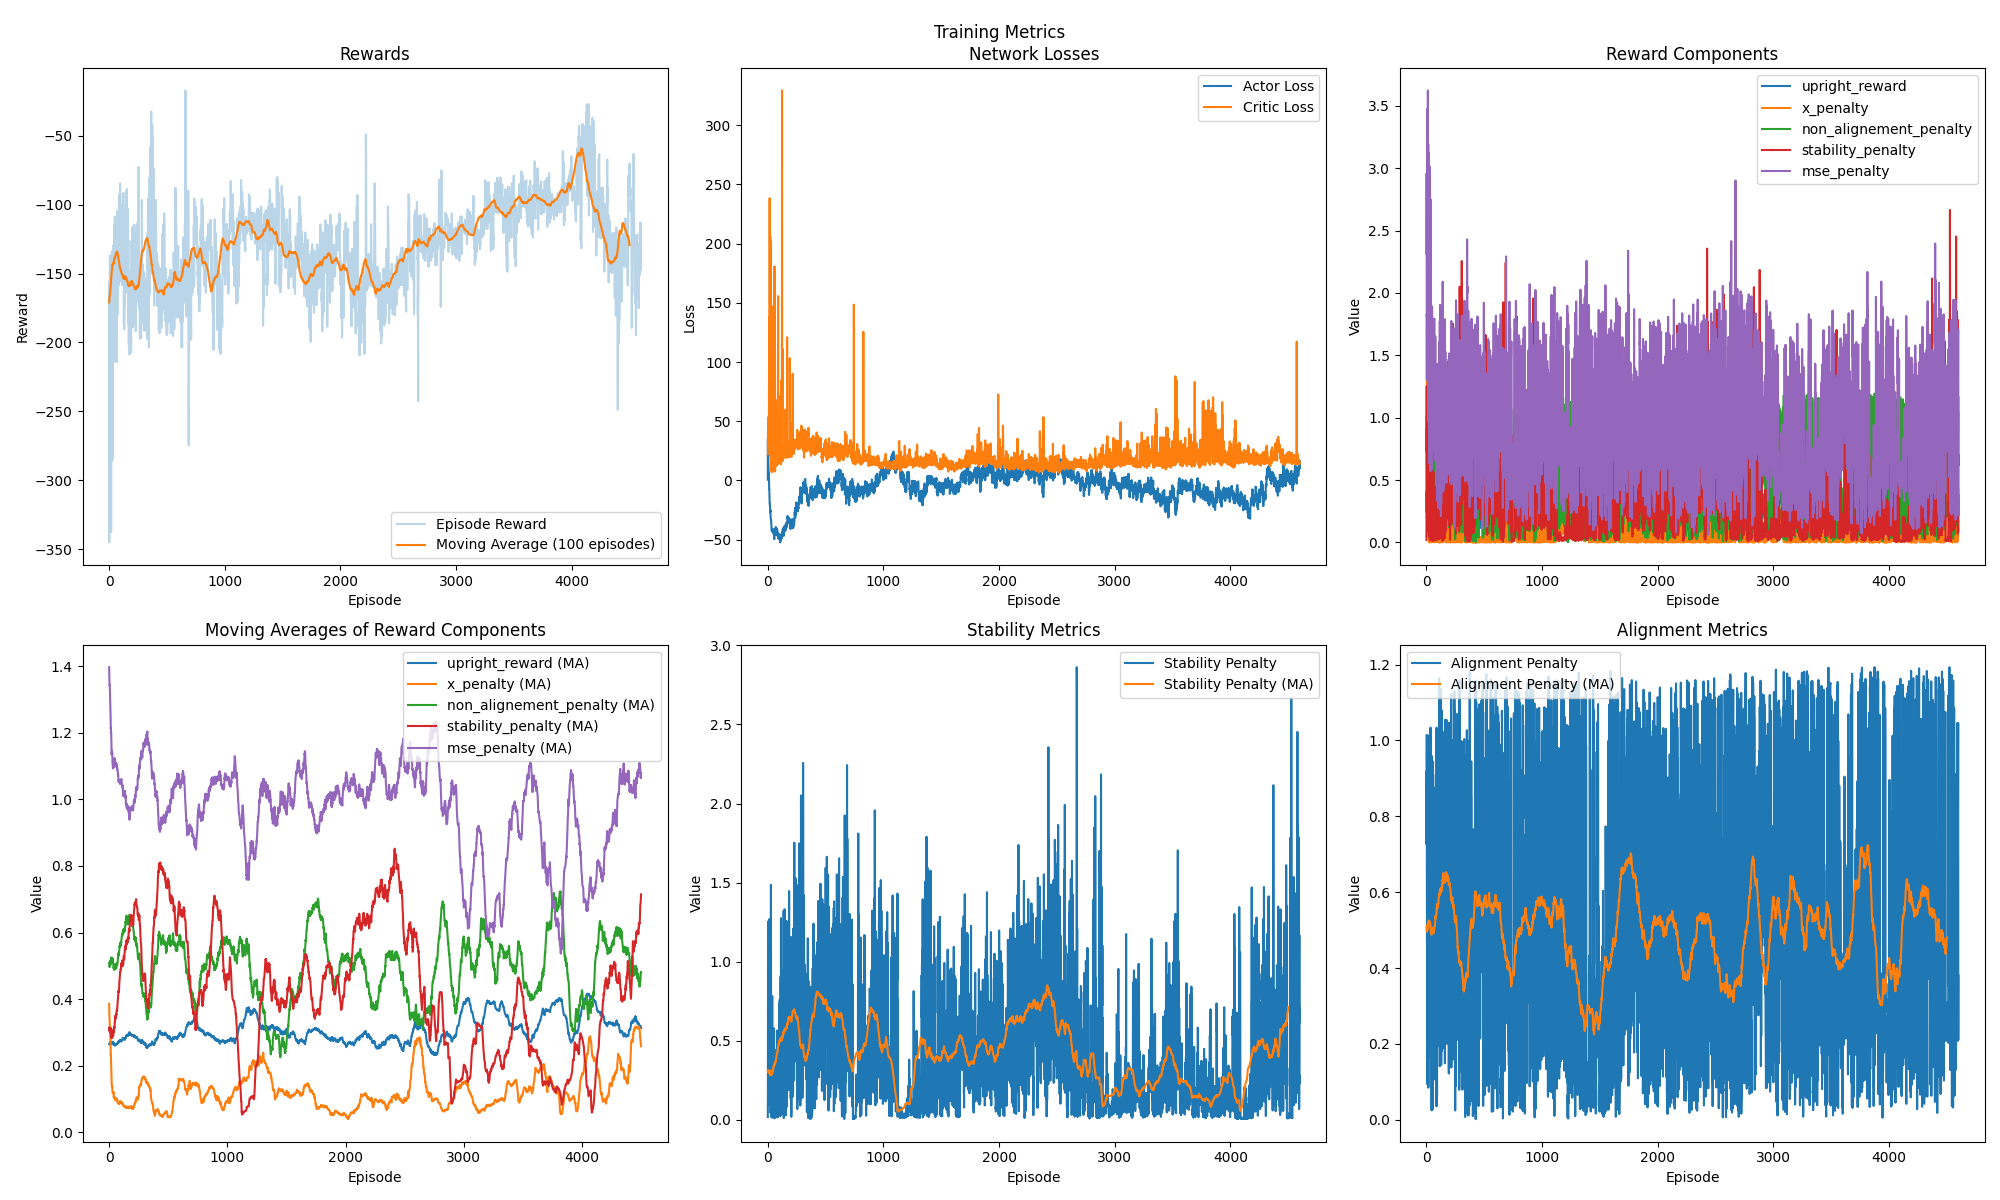
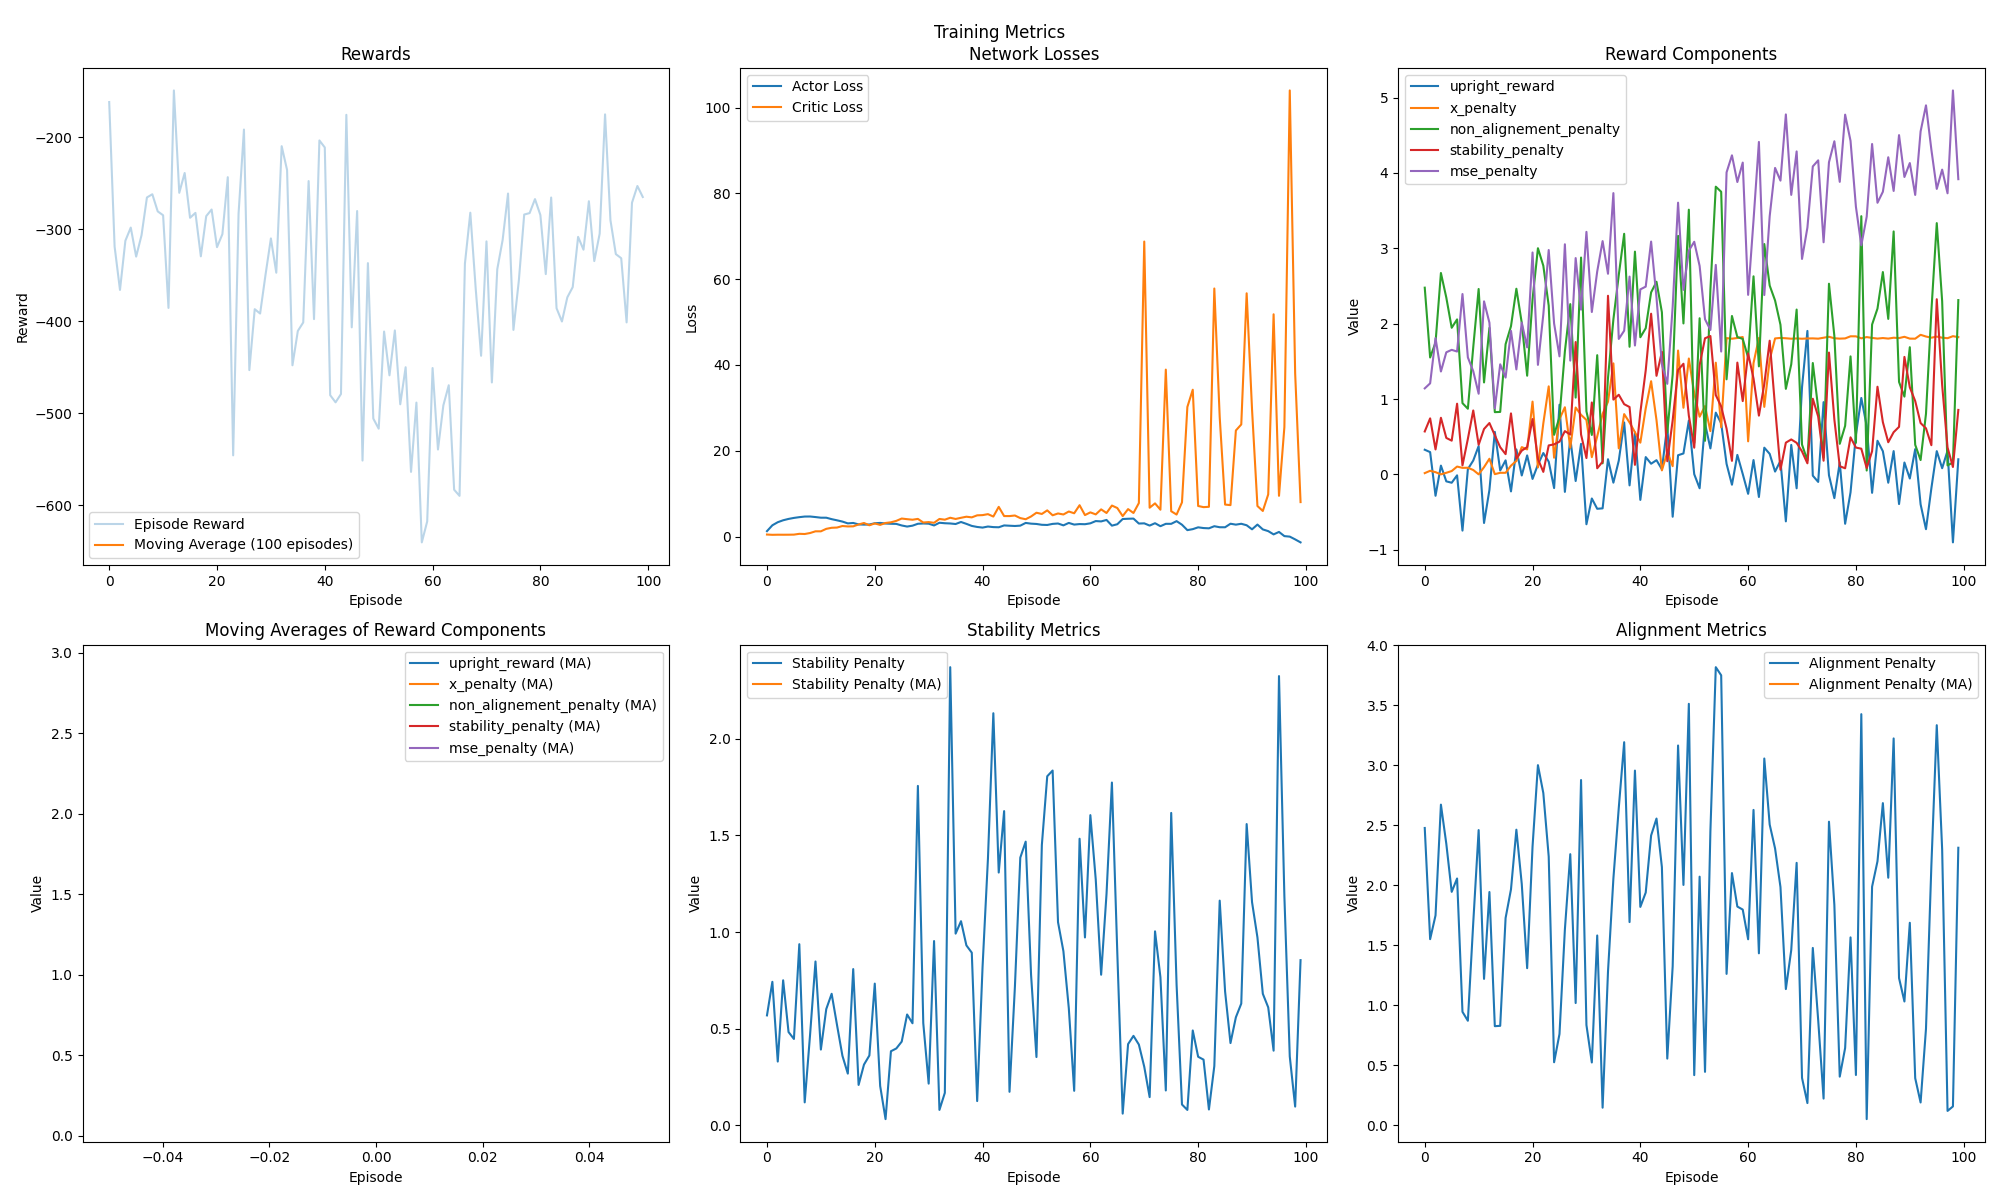
Refactor TriplePendulum environment to incorporate new reward components, including upright reward and penalties for alignment, stability, and MSE. Adjust RewardManager weights for improved reward calculations. Update manual control force magnitude for enhanced responsiveness. Update metrics image t

diff --git a/env.py b/env.py
@@ -448,20 +448,27 @@ class TriplePendulumEnv(gym.Env):
         normalized_consecutive_upright_steps = min(self.consecutive_upright_steps / 100, 1)
         is_long_upright = self.consecutive_upright_steps > 60
 
-        # MSE with aim position
-        reward_manager = RewardManager()
-        mse_sum = 0
-        for i in range(len(state)):
-            if i in [3, 6, 9]: # angles
-                mse_sum += np.sqrt((abs(state[i]) - reward_manager.aim_position_state[i]) ** 2)
-            elif i in [0, 12, 13, 14, 15, 16, 17, 18, 19] :
-                mse_sum += (state[i] - reward_manager.aim_position_state[i]) ** 2
+        # ADD reward components if Na, put 0
+        if self.reward_components:
+            reward = self.reward_components['reward']
+            upright_reward = self.reward_components['upright_reward']
+            x_penalty = self.reward_components['x_penalty']
+            non_alignement_penalty = self.reward_components['non_alignement_penalty']
+            stability_penalty = self.reward_components['stability_penalty']
+            mse_penalty = self.reward_components['mse_penalty']
+        else:
+            reward = 0
+            upright_reward = 0
+            x_penalty = 0
+            non_alignement_penalty = 0
+            stability_penalty = 0
+            mse_penalty = 0
 
         # Create model-ready state (only include necessary information)
         model_state = np.concatenate([
             processed_state[:12],  # Original 12 state variables
             [pivot1_x, pivot1_y, end1_x, end1_y, end2_x, end2_y, end3_x, end3_y, close_to_left, close_to_right, normalized_consecutive_upright_steps, is_long_upright],  # Additional visual information 
-            [mse_sum]
+            [reward, upright_reward, x_penalty, non_alignement_penalty, stability_penalty, mse_penalty]
         ])
 
         return model_state

diff --git a/reward.py b/reward.py
@@ -4,10 +4,10 @@ class RewardManager:
     def __init__(self):
         self.cart_position_weight = 0.20
         self.termination_penalty = 100.0
-        self.alignement_weight = 0.3
-        self.upright_weight = 0.1
+        self.alignement_weight = 1.0
+        self.upright_weight = 0.5
         self.stability_weight = 0.05  # Weight for the stability reward
-        self.mse_weight = 5.0  # Weight for the MSE penalty
+        self.mse_weight = 7.0  # Weight for the MSE penalty
         self.old_state = None
         self.length = 0.5  # Pendulum length
         self.consecutive_upright_steps = 0  # Track consecutive steps with pendulum upright
@@ -61,7 +61,7 @@ class RewardManager:
         # The physics uses a reference frame where positive y is downward
         upright_reward_points = self.upright_weight * (2.25 - end1_y - end2_y - end3_y)
         upright_reward_angles = self.upright_weight * (abs(th1) + abs(th2) + abs(th3))
-        upright_reward = upright_reward_points + upright_reward_angles
+        upright_reward = upright_reward_points + upright_reward_angles - 2.5
 
         # Check if pendulum is upright
         is_upright = (upright_reward > self.upright_threshold)

diff --git a/manual_run.py b/manual_run.py
@@ -14,7 +14,7 @@ obs, info = env.reset()
 # Track last direction for more responsive controls
 last_direction = 0
 # Force magnitude for manual control
-force_magnitude = 5.0
+force_magnitude = 20.0
 # Whether to apply stronger braking when direction changes
 strong_braking = True
 
